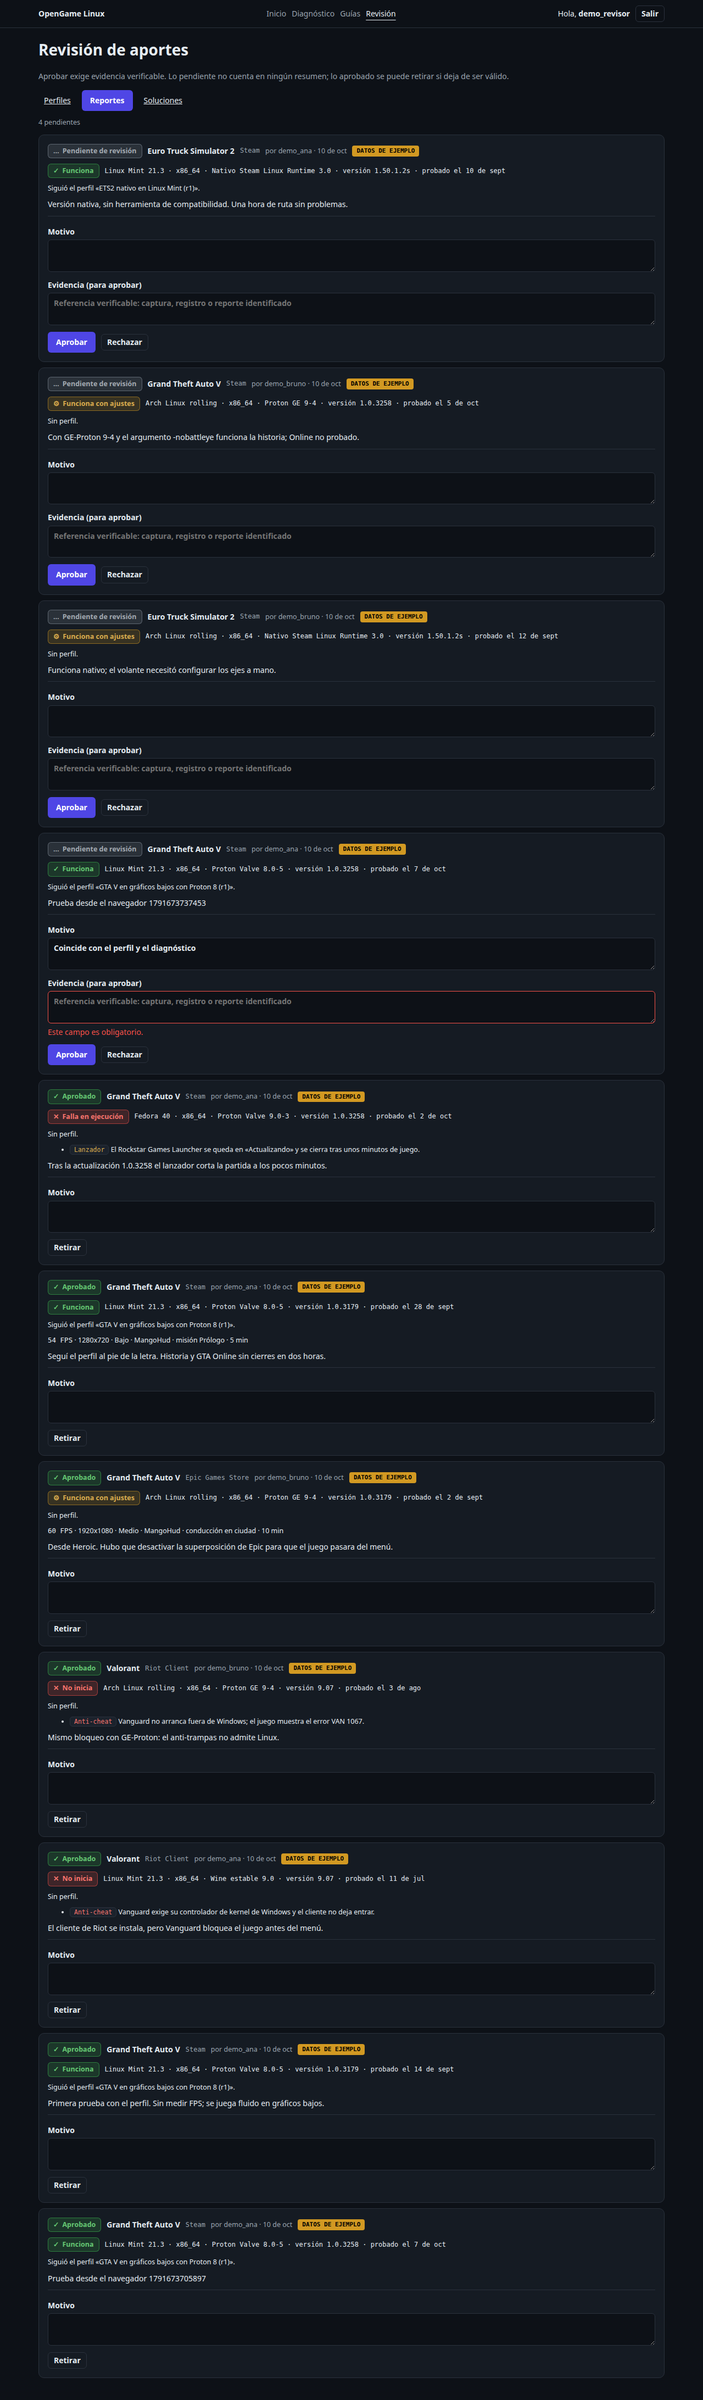
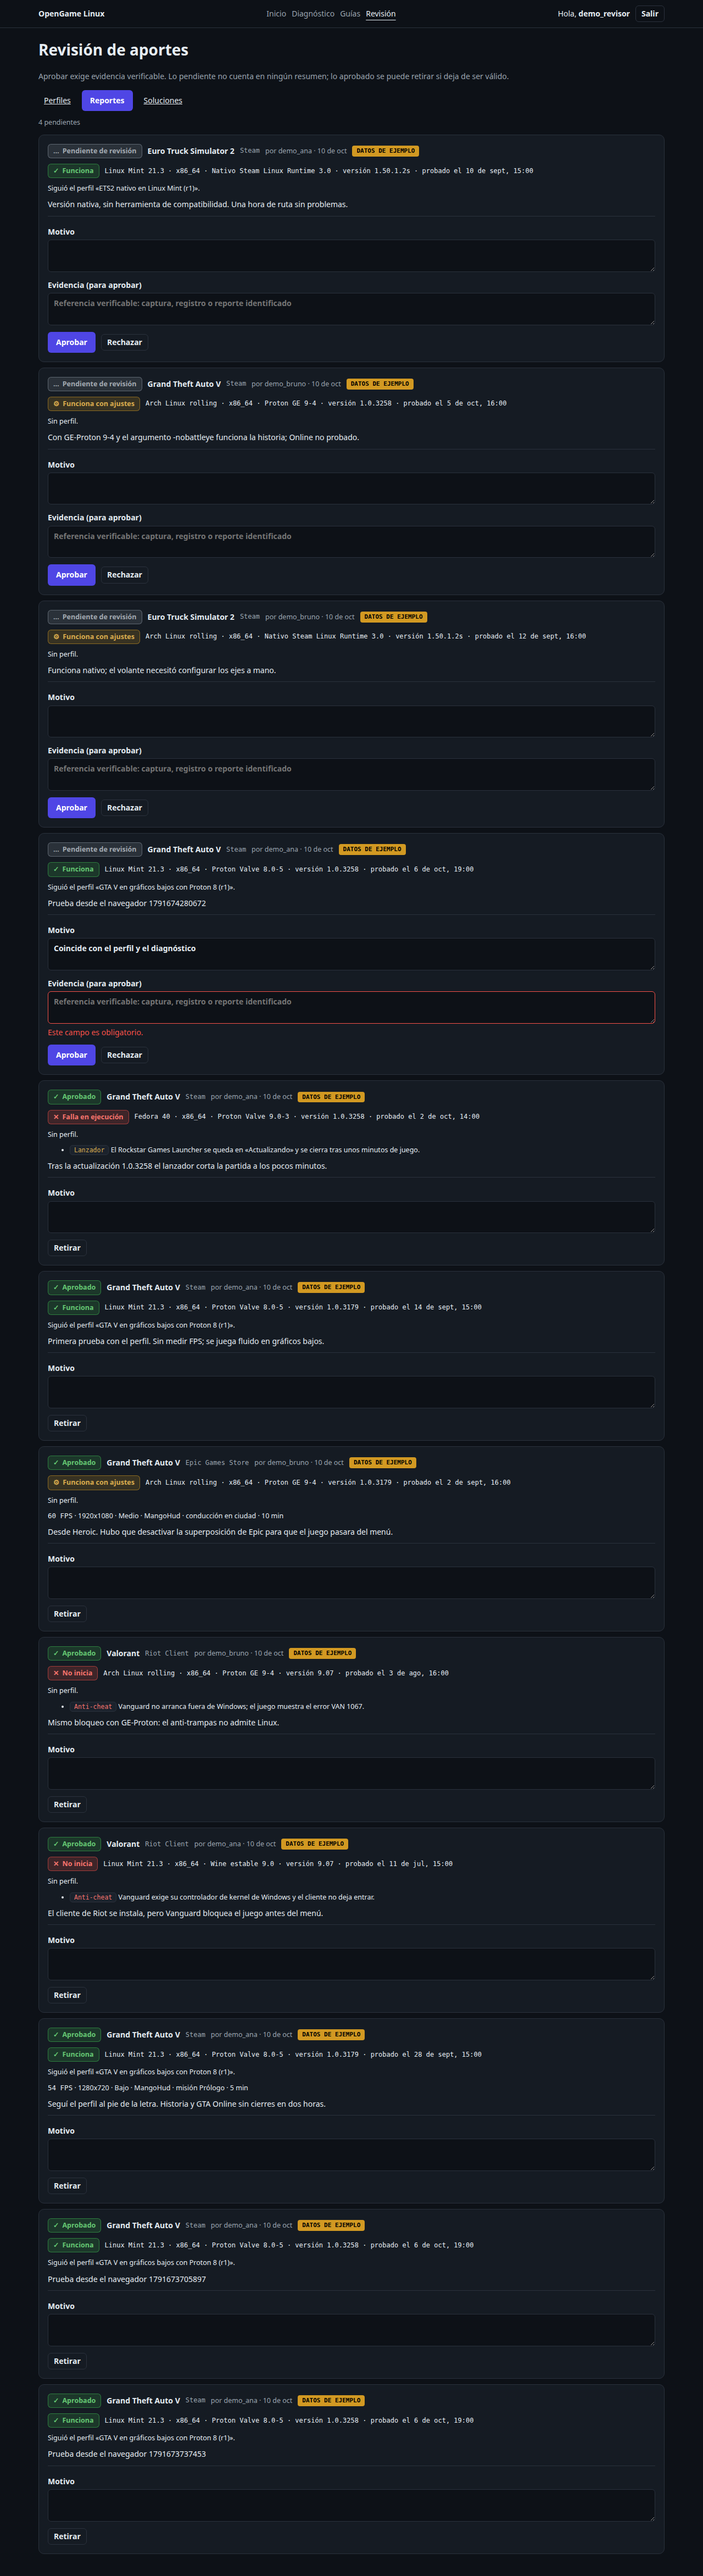
fix: address the U5 review
Approval preconditions hold the rows they read FOR SHARE, so a concurrent
retire waits instead of leaving an approved profile without its evidence.
Test and capture instants render in Colombia time with the hour, not as a
UTC day. A report with fallos links to the solution form. Notes the
unreachable comparability re-check and the seed's precondition; covers the
capture-instant boundary and retiring a pending row.

diff --git a/src/routes/revision.tsx b/src/routes/revision.tsx
@@ -4,16 +4,16 @@ import { createFileRoute, Link, notFound, redirect, useRouter } from '@tanstack/
 import { Schema } from 'effect'
 import type { ReactNode } from 'react'
 import { avisoTransicionInvalida, type AprobacionBloqueada, type Codificado, type ReglaIncumplida, type TransicionInvalida } from '../dominio/fallos.ts'
-import { AporteRef, Decision, type TipoAporte, TipoAporte as Tipo } from '../dominio/revision.ts'
+import { AporteRef, Decision, TipoAporte } from '../dominio/revision.ts'
 import { colaFn, decidirFn } from '../fns/revision.ts'
 import { Chip, Insignia } from '../ui/Insignia.tsx'
 import { ErrorCampo } from '../ui/ErrorCampo.tsx'
-import { contar, fecha, fps } from '../ui/formato.ts'
+import { contar, fecha, fps, momento } from '../ui/formato.ts'
 import { erroresDeRegla, type Errores, useAccion } from '../ui/useAccion.ts'
 import { bloqueo, estadoRevision, resultado, tipoFallo } from '../ui/vocabulario.ts'
 
 export const Route = createFileRoute('/revision')({
-  validateSearch: Schema.toStandardSchemaV1(Schema.Struct({ tipo: Schema.optionalKey(Tipo) })),
+  validateSearch: Schema.toStandardSchemaV1(Schema.Struct({ tipo: Schema.optionalKey(TipoAporte) })),
   beforeLoad: ({ context }) => {
     if (context.visitante === null) throw redirect({ to: '/entrar' })
     if (context.visitante.rol === 'usuario') throw notFound()
@@ -39,7 +39,7 @@ function Revision() {
         Aprobar exige evidencia verificable. Lo pendiente no cuenta en ningún resumen; lo aprobado se puede retirar si deja de ser válido.
       </p>
       <nav aria-label="Tipo de aporte" className="fila pestanas">
-        {Tipo.literals.map((t) => (
+        {TipoAporte.literals.map((t) => (
           <Link key={t} to="/revision" search={{ tipo: t }} aria-current={t === cola.tipo ? 'page' : undefined} className={t === cola.tipo ? 'boton' : 'boton-secundario'}>
             {pestanas[t]}
           </Link>
@@ -47,6 +47,7 @@ function Revision() {
       </nav>
       <p className="pequeno tenue">{contar(pendientes, 'pendiente', 'pendientes')}</p>
       {cola.elementos.length === 0 && <p className="tarjeta">No hay {pestanas[cola.tipo].toLowerCase()} pendientes ni aprobados.</p>}
+      {/* Keyed by state too, so a decided row remounts with an empty form instead of keeping the old motivo. */}
       <div className="pila">
         {cola.tipo === 'reporte' &&
           cola.elementos.map((e) => (
@@ -71,7 +72,6 @@ function Revision() {
   )
 }
 
-// Keyed by state too, so a decided row remounts with an empty form instead of keeping the old motivo.
 const FormDecision = Schema.Struct({ ref: AporteRef, decision: Decision })
 
 /** One queue row: its evidence (children), its blockers, and the decision form. */
@@ -168,7 +168,7 @@ function DetalleReporte({ e }: { e: ElementoDe<'reporte'> }) {
       <p className="fila">
         <Insignia etiqueta={resultado[e.resultado]} />
         <span className="dato">
-          {e.distribucion} · {e.arquitectura} · {e.capa} · versión {e.version_juego} · probado el {fecha(e.fecha_prueba)}
+          {e.distribucion} · {e.arquitectura} · {e.capa} · versión {e.version_juego} · probado el {momento(e.fecha_prueba)}
         </span>
       </p>
       <p className="pequeno">{e.perfil === null ? 'Sin perfil.' : `Siguió el perfil «${e.perfil}».`}</p>

diff --git a/src/servidor/aportes/revision.ts b/src/servidor/aportes/revision.ts
@@ -40,14 +40,15 @@ const revisables = {
   perfil: {
     tabla: 'perfil_configuracion',
     bloquear: (sql, id) => sql`SELECT estado_revision, autor_id FROM perfil_configuracion WHERE id = ${id} FOR UPDATE`,
-    // 8.9: at least one approved report that used the profile with a functional result.
+    // 8.9: at least one approved report that used the profile with a functional result. FOR SHARE holds
+    // that report until decidir commits, so a reviewer retiring it at the same time waits instead.
     bloqueos: (id) =>
       Effect.gen(function* () {
         const sql = yield* SqlClient.SqlClient
         const [fila] = yield* filas(
           Hay,
           sql`SELECT EXISTS (SELECT 1 FROM reporte WHERE perfil_id = ${id} AND estado_revision = ${aprobado}
-                AND resultado IN ${sql.in(ResultadoFuncional.literals)}) AS hay`,
+                AND resultado IN ${sql.in(ResultadoFuncional.literals)} LIMIT 1 FOR SHARE) AS hay`,
         )
         return fila?.hay === true ? [] : ['perfil_sin_reporte_funcional_aprobado']
       }),
@@ -59,7 +60,8 @@ const revisables = {
       sql`SELECT r.estado_revision, e.usuario_id AS autor_id
           FROM reporte r JOIN diagnostico d ON d.id = r.diagnostico_id JOIN equipo e ON e.id = d.equipo_id
           WHERE r.id = ${id} FOR UPDATE OF r`,
-    // 8.7: comparability is checked again at approval.
+    // 8.7: comparability is checked again at approval. Unreachable by construction today (a used profile,
+    // the report and its diagnosis are all frozen by triggers), so it guards against a future writer only.
     bloqueos: (id) =>
       Effect.gen(function* () {
         const sql = yield* SqlClient.SqlClient
@@ -80,16 +82,17 @@ const revisables = {
   solucion: {
     tabla: 'solucion',
     bloquear: (sql, id) => sql`SELECT estado_revision, autor_id FROM solucion WHERE id = ${id} FOR UPDATE`,
-    // 8.9: the source report is approved, and so is a recommended profile. The evidence that the fix
-    // works is Decision's required `evidencia`.
+    // 8.9: the source report is approved, and so is a recommended profile, both held FOR SHARE until
+    // decidir commits. The evidence that the fix works is Decision's required `evidencia`.
     bloqueos: (id) =>
       Effect.gen(function* () {
         const sql = yield* SqlClient.SqlClient
         const [estados] = yield* filas(
           EstadosSolucion,
-          sql`SELECT r.estado_revision AS reporte, p.estado_revision AS perfil
-              FROM solucion s JOIN reporte r ON r.id = s.reporte_id LEFT JOIN perfil_configuracion p ON p.id = s.perfil_id
-              WHERE s.id = ${id}`,
+          sql`SELECT r.estado_revision AS reporte,
+                     (SELECT p.estado_revision FROM perfil_configuracion p WHERE p.id = s.perfil_id FOR SHARE) AS perfil
+              FROM solucion s JOIN reporte r ON r.id = s.reporte_id
+              WHERE s.id = ${id} FOR SHARE OF r`,
         )
         if (estados === undefined) return []
         const bloqueos: Array<Bloqueo> = []

diff --git a/src/routes/juegos/$juegoId_.reportar.tsx b/src/routes/juegos/$juegoId_.reportar.tsx
@@ -10,7 +10,7 @@ import { FamiliaCapa, exigeFallo, Resultado } from '../../dominio/literales.ts'
 import { PerfilId } from '../../dominio/ids.ts'
 import { opcionesReporteFn, registrarReporteFn } from '../../fns/aportes.ts'
 import { ErrorCampo } from '../../ui/ErrorCampo.tsx'
-import { fecha } from '../../ui/formato.ts'
+import { momento } from '../../ui/formato.ts'
 import { Campo, campo, GrupoOpcional, nulo } from '../../ui/formulario.tsx'
 import { erroresDeRegla, type Errores, useAccion } from '../../ui/useAccion.ts'
 import { estadoRevision, resultado as etiquetaResultado, tipoFallo } from '../../ui/vocabulario.ts'
@@ -31,7 +31,7 @@ type Opciones = Awaited<ReturnType<typeof opcionesReporteFn>>
 
 function Reportar() {
   const opciones = Route.useLoaderData()
-  const [enviado, setEnviado] = useState<number | null>(null)
+  const [enviado, setEnviado] = useState<{ readonly id: number; readonly conFallos: boolean } | null>(null)
   const { juego } = opciones
 
   return (
@@ -46,6 +46,7 @@ function Reportar() {
           </p>
           <p className="fila">
             <a href={`/juegos/${juego.id}`}>Volver a la ficha del juego</a>
+            {enviado.conFallos && <a href={`/reportes/${enviado.id}/solucion`}>¿Conoces una solución? Propónla</a>}
             <button type="button" className="boton-secundario" onClick={() => setEnviado(null)}>
               Reportar otro resultado
             </button>
@@ -93,7 +94,7 @@ const nombres = (o: Opciones) => {
   }
 }
 
-function FormReporte({ opciones, alEnviar }: { opciones: Opciones; alEnviar: (id: number) => void }) {
+function FormReporte({ opciones, alEnviar }: { opciones: Opciones; alEnviar: (enviado: { readonly id: number; readonly conFallos: boolean }) => void }) {
   const { diagnosticos, ediciones, capas, perfiles, tiposFallo, perfilElegido } = opciones
   const elegido = perfiles.find((p) => p.id === perfilElegido)
 
@@ -133,7 +134,7 @@ function FormReporte({ opciones, alEnviar }: { opciones: Opciones; alEnviar: (id
         }
       }
     },
-    alCompletar: (v) => alEnviar(v.id),
+    alCompletar: (v) => alEnviar({ id: v.id, conFallos: fallos.length > 0 }),
   })
 
   const agregarFallo = () => {
@@ -150,7 +151,7 @@ function FormReporte({ opciones, alEnviar }: { opciones: Opciones; alEnviar: (id
         <select {...campo(r.errores, 'diagnostico_id')} value={diagnosticoId ?? ''} onChange={(e) => setDiagnosticoId(porId(diagnosticos, e.currentTarget.value))}>
           {diagnosticos.map((d) => (
             <option key={d.id} value={d.id}>
-              {d.equipo} · {d.distribucion} · {d.arquitectura} · {fecha(d.capturado_en)}
+              {d.equipo} · {d.distribucion} · {d.arquitectura} · {momento(d.capturado_en)}
             </option>
           ))}
         </select>

diff --git a/scripts/sembrar.ts b/scripts/sembrar.ts
@@ -10,7 +10,9 @@
 // builds) are real facts, not claims, so they carry no mark.
 //
 // Idempotent: each row is looked up by its natural key and inserted only when missing, and decidir()
-// answers `cambio: false` for a decision already applied, so a second run changes nothing and says so. The rows go in one transaction, so a crash leaves no half seed.
+// answers `cambio: false` for a decision already applied, so a second run changes nothing and says so.
+// That holds while nobody has rejected or retired a seeded row by hand; then decidir refuses the
+// approval (TransicionInvalida) and the run stops: reset the dev database with `pnpm db:reset`. The rows go in one transaction, so a crash leaves no half seed.
 // A profile's steps and dependencies are written only together with a new profile: once a profile is
 // used or reviewed, og_perfil_congelado refuses any write to them, even an ON CONFLICT DO NOTHING.
 import { Effect, Option, Record, Schema } from 'effect'
@@ -397,7 +399,7 @@ const reportes: ReadonlyArray<ReporteDemo> = [
 
 /** demo_bruno answers the launcher failure on Ana's Fedora tower (8.10: "otro usuario puede aportar una solución"). */
 const solucionDemo = {
-  reporte: 3,
+  reporte: 3, // index in `reportes`: the falla_en_ejecucion on Ana's Fedora tower
   tipoFallo: 'lanzador',
   titulo: 'Reinstalar el Rockstar Games Launcher dentro del prefijo de Proton',
   instrucciones: [
@@ -567,7 +569,7 @@ const programa = Effect.gen(function* () {
           reporteDe.set(i, existente.id)
           continue
         }
-        const fallos = []
+        const fallos: Array<{ tipo_fallo_id: number; detalle: string }> = []
         for (const [codigo, detalle] of r.fallos) fallos.push({ tipo_fallo_id: yield* de(tipoFallo, codigo), detalle })
         const nuevo = yield* Schema.decodeUnknownEffect(NuevoReporte)({
           edicion_id,

diff --git a/tests/aportes.test.ts b/tests/aportes.test.ts
@@ -148,6 +148,8 @@ layer(PgTest)('aportes', (it) => {
     it.effect('una prueba anterior al diagnóstico', enEscenario((e) =>
       Effect.gen(function* () {
         expect(yield* Effect.flip(reportar(e, { fecha_prueba: '2026-10-01T09:59:00.000Z' }))).toEqual(regla('fecha_antes_del_diagnostico'))
+        // The capture instant itself is allowed: "no anterior al diagnóstico".
+        yield* reportar(e, { fecha_prueba: '2026-10-01T10:00:00.000Z' })
       })))
 
     it.effect('un perfil de otra edición, antes de que lo note la FK', enEscenario((e) =>
@@ -253,9 +255,12 @@ layer(PgTest)('aportes', (it) => {
         expect(yield* Effect.flip(como(null)(registrarReporte(nuevoReporte(e))))).toEqual(new NoAutenticado())
       })))
 
-    it.effect('rechazar lo que ya está aprobado', enEscenario((e) =>
+    it.effect('rechazar lo que ya está aprobado, o retirar lo que sigue pendiente', enEscenario((e) =>
       Effect.gen(function* () {
         const { id } = yield* reportar(e)
+        expect(yield* Effect.flip(como(e.rita)(decidir(ref('reporte', id), retirar)))).toEqual(
+          new TransicionInvalida({ de: 'pendiente', a: 'retirado' }),
+        )
         yield* como(e.rita)(decidir(ref('reporte', id), aprobar))
         expect(yield* Effect.flip(como(e.rita)(decidir(ref('reporte', id), rechazar)))).toEqual(
           new TransicionInvalida({ de: 'aprobado', a: 'rechazado' }),

diff --git a/src/routes/reportes/$reporteId.solucion.tsx b/src/routes/reportes/$reporteId.solucion.tsx
@@ -6,7 +6,7 @@ import { NuevaSolucion } from '../../dominio/aportes.ts'
 import { TipoFalloId } from '../../dominio/ids.ts'
 import { opcionesSolucionFn, registrarSolucionFn } from '../../fns/aportes.ts'
 import { ErrorCampo } from '../../ui/ErrorCampo.tsx'
-import { fecha } from '../../ui/formato.ts'
+import { momento } from '../../ui/formato.ts'
 import { Campo, campo, nulo } from '../../ui/formulario.tsx'
 import { Insignia } from '../../ui/Insignia.tsx'
 import { erroresDeRegla, useAccion } from '../../ui/useAccion.ts'
@@ -37,7 +37,7 @@ function ProponerSolucion() {
           <Insignia etiqueta={resultado[reporte.resultado]} />
           <Insignia etiqueta={estadoRevision[reporte.estado_revision]} />
           <span className="dato">
-            {reporte.lanzador} · {reporte.distribucion} · {reporte.capa} · versión {reporte.version_juego} · {fecha(reporte.fecha_prueba)}
+            {reporte.lanzador} · {reporte.distribucion} · {reporte.capa} · versión {reporte.version_juego} · {momento(reporte.fecha_prueba)}
           </span>
         </p>
         <p>{reporte.observaciones}</p>

diff --git a/src/ui/formato.ts b/src/ui/formato.ts
@@ -20,3 +20,11 @@ const fechaHoraUtc = new Intl.DateTimeFormat('es-CO', { dateStyle: 'medium', tim
 
 /** "10 oct 2026, 6:43 p. m. UTC": a capture time, printed in UTC so server and browser agree. */
 export const fechaHora = (d: Date) => `${fechaHoraUtc.format(d)} UTC`
+
+// Instants (timestamptz: a test, a capture) in the app's audience zone, fixed so SSR and the browser
+// agree. 24-hour digits only: ICU builds differ in how they space "p. m.", which would break hydration.
+const diaBogota = new Intl.DateTimeFormat('es-CO', { day: 'numeric', month: 'short', timeZone: 'America/Bogota' })
+const horaBogota = new Intl.DateTimeFormat('es-CO', { hour: '2-digit', minute: '2-digit', hourCycle: 'h23', timeZone: 'America/Bogota' })
+
+/** "2 de oct, 19:00", Colombia time */
+export const momento = (d: Date) => `${diaBogota.format(d)}, ${horaBogota.format(d)}`

diff --git a/src/servidor/consultas/revision.ts b/src/servidor/consultas/revision.ts
@@ -54,6 +54,7 @@ const ColaSolucion = Schema.Struct({
   perfil: Schema.NullOr(Nombre),
 })
 
+/** One bloqueosAprobacion call per pending row: the queue is short, and the rule keeps a single home. */
 const conBloqueos = <A extends { readonly estado_revision: string }>(elementos: ReadonlyArray<A>, refDe: (a: A) => AporteRef) =>
   Effect.forEach(elementos, (e) =>
     Effect.map(e.estado_revision === 'pendiente' ? bloqueosAprobacion(refDe(e)) : Effect.succeed([]), (bloqueos: ReadonlyArray<Bloqueo>) => ({ ...e, bloqueos })),

diff --git a/src/dominio/aportes.ts b/src/dominio/aportes.ts
@@ -63,7 +63,7 @@ const camposReporte = {
   perfil_id: Schema.NullOr(PerfilId),
   version_juego: Reporte.fields.version_juego,
   version_lanzador: TextoOpcionalHasta(largo.reporte.version_lanzador),
-  fecha_prueba: Schema.DateFromString, // a date-only value parses as UTC midnight (probe a); render it in UTC
+  fecha_prueba: Schema.DateFromString, // the form's datetime-local value, read in the browser's own zone
   medicion: Schema.NullOr(MedicionFps),
   observaciones: Texto,
 }
